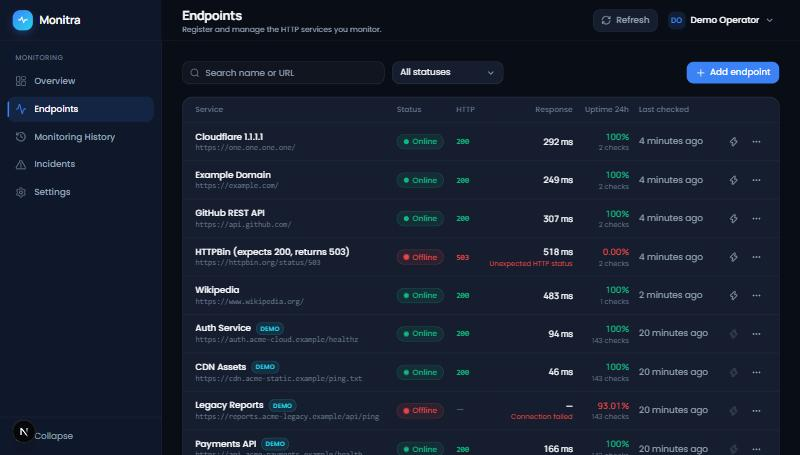
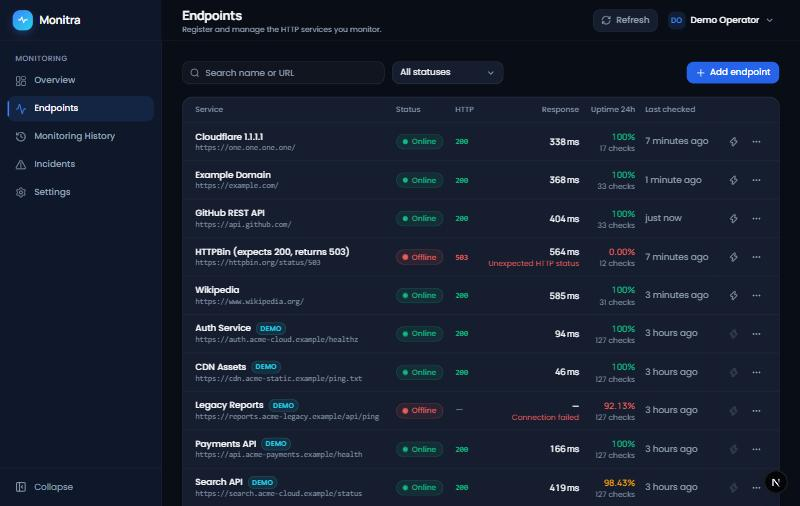
polish dashboard and resolve remaining issues
Refine dashboard layouts and responsive behavior.
Improve UI consistency, loading states, and error handling.
Address issues found during final QA and update relevant documentation.

diff --git a/apps/web/src/app/login/page.tsx b/apps/web/src/app/login/page.tsx
@@ -13,6 +13,12 @@ import { Logo } from "@/components/layout/logo";
 import { ApiError, apiRequest } from "@/lib/api/client";
 import { authApi } from "@/lib/api/services";
 import type { User } from "@/lib/api/types";
+import { clearCachedData, safeNextPath } from "@/lib/auth-redirect";
+
+/** Where to go after signing in: the validated ?next= path, or the overview. Read at call time (no useSearchParams, so the page stays static). */
+function nextDestination(): string {
+  return safeNextPath(new URLSearchParams(window.location.search).get("next"));
+}
 
 const schema = z.object({
   email: z.string().trim().email("Enter a valid email address."),
@@ -37,10 +43,13 @@ export default function LoginPage() {
     formState: { errors, isSubmitting },
   } = useForm<FormValues>({ resolver: zodResolver(schema), defaultValues: { email: "", password: "", remember: true } });
 
-  // Already signed in? Go straight to the dashboard.
+  // Arriving here means there is no valid session (sign-out or expiry): purge any cached
+  // API data so nothing from a previous session can flash for the next user.
+  // Then, if a session does exist after all, go straight to the dashboard.
   useEffect(() => {
+    void clearCachedData();
     apiRequest<{ user: User }>("/api/auth/user")
-      .then(() => router.replace("/overview"))
+      .then(() => router.replace(nextDestination()))
       .catch(() => undefined);
   }, [router]);
 
@@ -48,7 +57,7 @@ export default function LoginPage() {
     setFormError(null);
     try {
       await authApi.login(values.email, values.password, values.remember);
-      router.replace("/overview");
+      router.replace(nextDestination());
     } catch (error) {
       if (error instanceof ApiError && error.status === 422) {
         setFormError(error.errors.email?.[0] ?? error.errors.password?.[0] ?? error.message);

diff --git a/apps/web/src/lib/auth-redirect.ts b/apps/web/src/lib/auth-redirect.ts
@@ -1,0 +1,27 @@
+import { mutate } from "swr";
+
+const DEFAULT_DESTINATION = "/overview";
+
+/**
+ * Only same-origin, absolute in-app paths are accepted as a post-login destination.
+ * Rejects protocol-relative ("//evil.com"), backslash ("/\evil.com"), absolute URLs
+ * and the login page itself, so `?next=` can never become an open redirect.
+ */
+export function safeNextPath(next: string | null | undefined): string {
+  if (!next || !next.startsWith("/") || next.startsWith("//") || next.startsWith("/\\") || /[\r\n\t]/.test(next)) {
+    return DEFAULT_DESTINATION;
+  }
+  if (next === "/" || next.startsWith("/login")) return DEFAULT_DESTINATION;
+  return next;
+}
+
+/** Login URL that returns the user to the page they were on. */
+export function loginPathFor(current: string): string {
+  const next = safeNextPath(current);
+  return next === DEFAULT_DESTINATION ? "/login" : `/login?next=${encodeURIComponent(next)}`;
+}
+
+/** Drops every cached API response so no data from an ended session is shown to the next user. */
+export function clearCachedData(): Promise<unknown> {
+  return mutate(() => true, undefined, { revalidate: false });
+}

diff --git a/apps/web/src/components/providers/app-providers.tsx b/apps/web/src/components/providers/app-providers.tsx
@@ -3,6 +3,7 @@
 import { useRouter } from "next/navigation";
 import { SWRConfig } from "swr";
 import { ApiError, swrFetcher } from "@/lib/api/client";
+import { loginPathFor } from "@/lib/auth-redirect";
 
 /**
  * Global data-fetching configuration. Any 401 from the API means the session
@@ -18,7 +19,10 @@ export function AppProviders({ children }: { children: React.ReactNode }) {
         revalidateOnFocus: true,
         errorRetryCount: 2,
         onError: (error: unknown) => {
-          if (error instanceof ApiError && error.isUnauthenticated) router.replace("/login");
+          // Cached data is purged by the login page itself; clearing it here would race the navigation.
+          if (error instanceof ApiError && error.isUnauthenticated) {
+            router.replace(loginPathFor(window.location.pathname + window.location.search));
+          }
         },
         shouldRetryOnError: (error: unknown) => !(error instanceof ApiError && error.status > 0 && error.status < 500),
       }}

diff --git a/apps/web/src/app/error.tsx b/apps/web/src/app/error.tsx
@@ -1,0 +1,23 @@
+"use client";
+
+import { useEffect } from "react";
+import Link from "next/link";
+import { Logo } from "@/components/layout/logo";
+import { ErrorState } from "@/components/common/error-state";
+
+/** Fallback for rendering errors outside the dashboard shell (e.g. the sign-in page). */
+export default function RootError({ error, reset }: { error: Error & { digest?: string }; reset: () => void }) {
+  useEffect(() => {
+    console.error(error);
+  }, [error]);
+
+  return (
+    <main className="flex min-h-dvh flex-col items-center justify-center px-4 py-12">
+      <Logo className="mb-8" />
+      <ErrorState title="Something went wrong" description="An unexpected error occurred. Please try again." onRetry={reset} />
+      <Link href="/overview" className="mt-2 text-sm font-medium text-primary hover:underline">
+        Back to overview
+      </Link>
+    </main>
+  );
+}

diff --git a/apps/web/src/components/endpoints/endpoints-table.tsx b/apps/web/src/components/endpoints/endpoints-table.tsx
@@ -64,7 +64,7 @@ export function EndpointsTable({ endpoints, compact = false }: Props) {
   return (
     <>
       {/* Desktop / tablet: table */}
-      <div className="hidden overflow-x-auto lg:block scrollbar-thin">
+      <div className="hidden overflow-x-auto xl:block scrollbar-thin">
         <Table className="min-w-[860px]">
           <TableHeader>
             <TableRow className="border-border hover:bg-transparent">
@@ -134,7 +134,7 @@ export function EndpointsTable({ endpoints, compact = false }: Props) {
       </div>
 
       {/* Mobile: stacked cards */}
-      <ul className="divide-y divide-border lg:hidden">
+      <ul className="divide-y divide-border xl:hidden">
         {endpoints.map((endpoint) => (
           <li key={endpoint.id} className="px-4 py-4">
             <div className="flex items-start justify-between gap-3">

diff --git a/apps/web/src/components/providers/auth-provider.tsx b/apps/web/src/components/providers/auth-provider.tsx
@@ -6,6 +6,7 @@ import { useSWRConfig } from "swr";
 import { toast } from "sonner";
 import { useCurrentUser } from "@/hooks/use-monitra";
 import { ApiError } from "@/lib/api/client";
+import { loginPathFor } from "@/lib/auth-redirect";
 import { authApi } from "@/lib/api/services";
 import type { User } from "@/lib/api/types";
 import { FullPageLoader } from "@/components/common/full-page-loader";
@@ -33,7 +34,7 @@ export function AuthGuard({ children }: { children: React.ReactNode }) {
   const unauthenticated = error instanceof ApiError && error.isUnauthenticated;
 
   useEffect(() => {
-    if (unauthenticated) router.replace("/login");
+    if (unauthenticated) router.replace(loginPathFor(window.location.pathname + window.location.search));
   }, [unauthenticated, router]);
 
   const logout = useCallback(async () => {

diff --git a/apps/web/src/components/incidents/incidents-table.tsx b/apps/web/src/components/incidents/incidents-table.tsx
@@ -14,7 +14,7 @@ interface Props {
 export function IncidentsTable({ incidents, showEndpoint = true }: Props) {
   return (
     <>
-      <div className="hidden overflow-x-auto lg:block scrollbar-thin">
+      <div className="hidden overflow-x-auto xl:block scrollbar-thin">
         <Table className="min-w-[760px]">
           <TableHeader>
             <TableRow className="border-border hover:bg-transparent">
@@ -66,7 +66,7 @@ export function IncidentsTable({ incidents, showEndpoint = true }: Props) {
         </Table>
       </div>
 
-      <ul className="divide-y divide-border lg:hidden">
+      <ul className="divide-y divide-border xl:hidden">
         {incidents.map((incident) => (
           <li key={incident.id} className="px-4 py-4">
             <div className="flex items-start justify-between gap-3">

diff --git a/apps/web/src/components/history/checks-table.tsx b/apps/web/src/components/history/checks-table.tsx
@@ -14,7 +14,7 @@ interface Props {
 export function ChecksTable({ checks, showEndpoint = true }: Props) {
   return (
     <>
-      <div className="hidden overflow-x-auto lg:block scrollbar-thin">
+      <div className="hidden overflow-x-auto xl:block scrollbar-thin">
         <Table className="min-w-[720px]">
           <TableHeader>
             <TableRow className="border-border hover:bg-transparent">
@@ -58,7 +58,7 @@ export function ChecksTable({ checks, showEndpoint = true }: Props) {
         </Table>
       </div>
 
-      <ul className="divide-y divide-border lg:hidden">
+      <ul className="divide-y divide-border xl:hidden">
         {checks.map((check) => (
           <li key={check.id} className="flex items-center justify-between gap-3 px-4 py-3">
             <div className="min-w-0">

diff --git a/apps/web/src/app/(app)/error.tsx b/apps/web/src/app/(app)/error.tsx
@@ -1,0 +1,22 @@
+"use client";
+
+import { useEffect } from "react";
+import { Panel } from "@/components/common/panel";
+import { ErrorState } from "@/components/common/error-state";
+
+/** Catches rendering errors on dashboard pages; the sidebar and header stay usable. */
+export default function AppError({ error, reset }: { error: Error & { digest?: string }; reset: () => void }) {
+  useEffect(() => {
+    console.error(error);
+  }, [error]);
+
+  return (
+    <Panel>
+      <ErrorState
+        title="This page failed to load"
+        description="An unexpected error occurred while rendering this view. Your data is unaffected."
+        onRetry={reset}
+      />
+    </Panel>
+  );
+}

diff --git a/apps/web/src/components/common/panel.tsx b/apps/web/src/components/common/panel.tsx
@@ -2,7 +2,9 @@ import { cn } from "@/lib/utils";
 
 /** Base surface used for every dashboard section. */
 export function Panel({ className, ...props }: React.ComponentProps<"section">) {
-  return <section className={cn("rounded-xl border border-border bg-card shadow-card", className)} {...props} />;
+  // min-w-0: as a grid/flex item a panel must be allowed to shrink, otherwise one long
+  // unbreakable value (e.g. a truncated endpoint name) widens the whole column on phones.
+  return <section className={cn("min-w-0 rounded-xl border border-border bg-card shadow-card", className)} {...props} />;
 }
 
 interface PanelHeaderProps {

diff --git a/apps/web/src/components/common/kpi-card.tsx b/apps/web/src/components/common/kpi-card.tsx
@@ -23,7 +23,7 @@ interface KpiCardProps {
 
 export function KpiCard({ label, value, hint, icon: Icon, tone = "primary", loading }: KpiCardProps) {
   return (
-    <div className="flex flex-col gap-4 rounded-xl border border-border bg-card p-5 shadow-card">
+    <div className="flex min-w-0 flex-col gap-4 rounded-xl border border-border bg-card p-5 shadow-card">
       <div className="flex items-center justify-between gap-3">
         <span className="text-[13px] font-medium text-muted-foreground">{label}</span>
         <span className={cn("inline-flex size-8 items-center justify-center rounded-lg", TONES[tone])}>

diff --git a/apps/api/bootstrap/app.php b/apps/api/bootstrap/app.php
@@ -5,6 +5,7 @@ use Illuminate\Foundation\Application;
 use Illuminate\Foundation\Configuration\Exceptions;
 use Illuminate\Foundation\Configuration\Middleware;
 use Illuminate\Http\Request;
+use Symfony\Component\HttpKernel\Exception\HttpExceptionInterface;
 
 return Application::configure(basePath: dirname(__DIR__))
     ->withRouting(
@@ -25,4 +26,15 @@ return Application::configure(basePath: dirname(__DIR__))
         $exceptions->shouldRenderJsonWhen(
             fn (Request $request) => $request->is('api/*') || $request->expectsJson(),
         );
+
+        // One generic body for every API 404 (missing record, endpoint owned by someone
+        // else, unknown route). Laravel otherwise keeps "No query results for model
+        // [App\Models\...] <id>" even with APP_DEBUG=false, leaking internal class names.
+        $exceptions->render(function (HttpExceptionInterface $e, Request $request) {
+            if ($e->getStatusCode() === 404 && $request->is('api/*')) {
+                return response()->json(['message' => 'Resource not found.'], 404);
+            }
+
+            return null;
+        });
     })->create();
